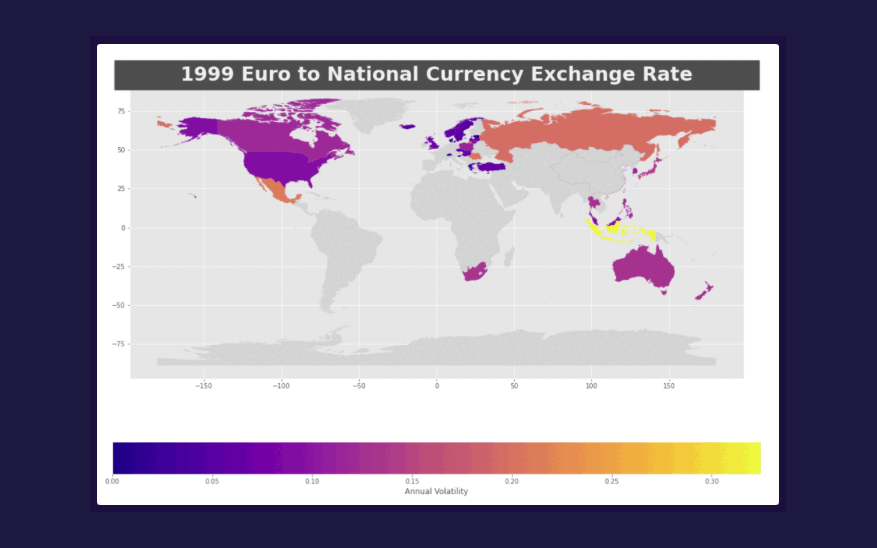
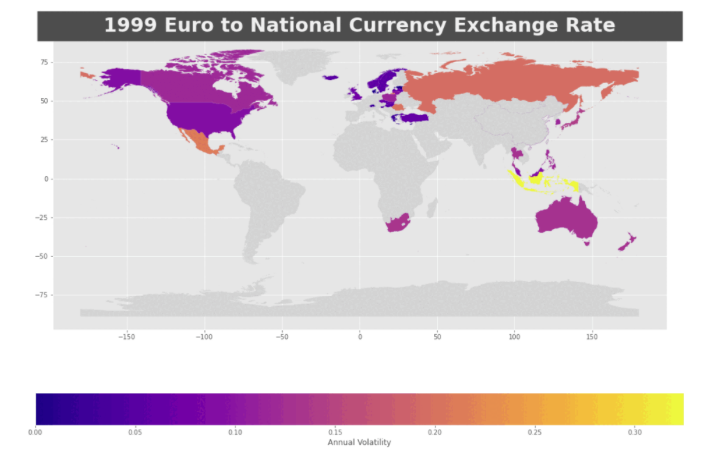
Update fixing thumbnails, map, some text

diff --git a/assets/app.js b/assets/app.js
@@ -1,22 +1,105 @@
 /* data542.com - app.js
-   Minimal JS - the accordion is pure HTML/CSS.
-   This file is here for future use (e.g. Power BI embed tokens,
-   contact form handling, analytics). */
+   Click-to-zoom viewer for architecture diagrams (img[data-zoom]).
+   Buttons, +/- keys, and ctrl/cmd + scroll (trackpad pinch) change zoom;
+   drag or scroll to pan. */
 
 document.addEventListener('DOMContentLoaded', () => {
+  const imgs = document.querySelectorAll('img[data-zoom]');
+  if (!imgs.length) return;
 
-  // Close other open accordions when one opens (optional UX polish)
-  const details = document.querySelectorAll('details.project-item');
-  details.forEach(detail => {
-    detail.addEventListener('toggle', () => {
-      if (detail.open) {
-        details.forEach(other => {
-          if (other !== detail && other.open) {
-            other.removeAttribute('open');
-          }
-        });
-      }
+  const dlg = document.createElement('dialog');
+  dlg.className = 'zoom';
+  dlg.setAttribute('aria-label', 'Diagram viewer');
+  dlg.innerHTML =
+    '<div class="zoom-bar">' +
+      '<button type="button" data-act="out" aria-label="Zoom out">&minus;</button>' +
+      '<button type="button" data-act="fit" aria-label="Fit to screen">Fit</button>' +
+      '<button type="button" data-act="in" aria-label="Zoom in">+</button>' +
+      '<button type="button" data-act="close" aria-label="Close">Close</button>' +
+    '</div>' +
+    '<div class="zoom-view"><img alt=""></div>';
+  document.body.appendChild(dlg);
+
+  const view = dlg.querySelector('.zoom-view');
+  const big = view.querySelector('img');
+  const MIN = 1, MAX = 4;
+  let scale = 1;
+
+  const fitWidth = () => Math.min(view.clientWidth - 32, 1600);
+
+  function setScale(next, cx, cy) {
+    next = Math.max(MIN, Math.min(MAX, next));
+    // keep the point under the cursor (or the view centre) in place
+    const px = cx ?? view.clientWidth / 2;
+    const py = cy ?? view.clientHeight / 2;
+    const fx = (view.scrollLeft + px) / view.scrollWidth;
+    const fy = (view.scrollTop + py) / view.scrollHeight;
+    scale = next;
+    big.style.width = Math.round(fitWidth() * scale) + 'px';
+    view.scrollLeft = fx * view.scrollWidth - px;
+    view.scrollTop = fy * view.scrollHeight - py;
+  }
+
+  function open(src, alt) {
+    big.src = src;
+    big.alt = alt || '';
+    dlg.showModal();
+    scale = 1;
+    big.style.width = fitWidth() + 'px';
+    view.scrollTo(0, 0);
+  }
+
+  imgs.forEach(img => {
+    img.tabIndex = 0;
+    img.setAttribute('role', 'button');
+    img.title = 'Click to zoom';
+    const hint = document.createElement('span');
+    hint.className = 'zoom-hint';
+    hint.textContent = 'Click to zoom';
+    (img.closest('figure') || img.parentNode).appendChild(hint);
+    img.addEventListener('click', () => open(img.src, img.alt));
+    img.addEventListener('keydown', e => {
+      if (e.key === 'Enter' || e.key === ' ') { e.preventDefault(); open(img.src, img.alt); }
     });
   });
 
+  dlg.querySelector('.zoom-bar').addEventListener('click', e => {
+    const act = e.target.closest('button')?.dataset.act;
+    if (act === 'in') setScale(scale * 1.5);
+    if (act === 'out') setScale(scale / 1.5);
+    if (act === 'fit') setScale(1);
+    if (act === 'close') dlg.close();
+  });
+
+  dlg.addEventListener('keydown', e => {
+    if (e.key === '+' || e.key === '=') setScale(scale * 1.5);
+    if (e.key === '-') setScale(scale / 1.5);
+    if (e.key === '0') setScale(1);
+  });
+
+  view.addEventListener('wheel', e => {
+    if (!e.ctrlKey && !e.metaKey) return;
+    e.preventDefault();
+    const r = view.getBoundingClientRect();
+    setScale(scale * Math.exp(-e.deltaY * 0.01), e.clientX - r.left, e.clientY - r.top);
+  }, { passive: false });
+
+  // drag to pan (mouse / pen; touch uses native scrolling)
+  let drag = null;
+  view.addEventListener('pointerdown', e => {
+    if (e.pointerType === 'touch') return;
+    drag = { x: e.clientX, y: e.clientY, l: view.scrollLeft, t: view.scrollTop };
+    view.classList.add('dragging');
+    view.setPointerCapture(e.pointerId);
+  });
+  view.addEventListener('pointermove', e => {
+    if (!drag) return;
+    view.scrollLeft = drag.l - (e.clientX - drag.x);
+    view.scrollTop = drag.t - (e.clientY - drag.y);
+  });
+  const end = () => { drag = null; view.classList.remove('dragging'); };
+  view.addEventListener('pointerup', end);
+  view.addEventListener('pointercancel', end);
+
+  window.addEventListener('resize', () => { if (dlg.open) setScale(scale); });
 });

diff --git a/architecture.html b/architecture.html
@@ -32,6 +32,7 @@
   .roadmap-item .label.live{color:var(--gold);}
   hr{border:none;border-top:1px solid var(--border);margin:2.4rem 0;}
 </style>
+<link rel="stylesheet" href="assets/zoom.css">
 </head>
 <body>
 <div class="wrap">
@@ -43,7 +44,7 @@
   <p class="lead">Every project on this site runs on a shared AWS foundation: scheduled compute jobs ingest data from external APIs, land it in Amazon S3, and refine it through staged layers, with Amazon CloudFront serving the curated output to Power BI reports embedded here. EventBridge handles all scheduling. Compute is matched to the workload. Short ingestion and transformation jobs run on Lambda, while longer-running scans run as Fargate container tasks. Projects share a single S3 bucket, separated by prefix and governed by IAM roles scoped to each project's own data. The platform currently supports two production pipelines, a weather station feed live since early 2025 and a daily equities scanner, with further projects planned on the same foundation.</p>
 
   <figure>
-    <img src="data542-current-architecture.svg" alt="Current architecture: Tempest weather and Swing Trader pipelines feeding a shared S3 lake, served through CloudFront to Power BI.">
+    <img src="data542-current-architecture.svg" data-zoom alt="Current architecture: Tempest weather and Swing Trader pipelines feeding a shared S3 lake, served through CloudFront to Power BI.">
     <figcaption>Current architecture: the two production pipelines on the shared foundation.</figcaption>
   </figure>
 
@@ -84,10 +85,11 @@
   <p class="roadmap-item"><span class="label">Deferred by design: the shared catalog.</span> The common bucket convention and Glue Data Catalog described in the decisions above, sequenced to begin once the Sunset project's requirements are concrete.</p>
 
   <figure>
-    <img src="data542-target-architecture.svg" alt="Target architecture: all five projects as lanes feeding the shared lake, with live and planned routes and a planned Glue Data Catalog spanning the bucket.">
+    <img src="data542-target-architecture.svg" data-zoom alt="Target architecture: all five projects as lanes feeding the shared lake, with live and planned routes and a planned Glue Data Catalog spanning the bucket.">
     <figcaption>Target architecture: the full estate, with planned routes shown alongside what runs today.</figcaption>
   </figure>
 
 </div>
+<script src="assets/app.js"></script>
 </body>
 </html>

diff --git a/index.html b/index.html
@@ -11,6 +11,7 @@
   <meta property="og:url" content="https://data542.com/"/>
   <meta property="og:image" content="https://data542.com/assets/img/logo.png"/>
   <link rel="stylesheet" href="assets/styles.css"/>
+  <link rel="stylesheet" href="assets/zoom.css"/>
   <link rel="icon" type="image/png" href="assets/img/logo.png"/>
 </head>
 <body>
@@ -98,13 +99,11 @@
          than Lambda allows, so it runs as a Fargate container. EventBridge schedules both, and
          Power BI reads the results through CloudFront.</p>
 
-      <p>Two pipelines run this way today. The Euro study below is next on the platform. It runs
-         now from a frozen dataset that stops in 2020; rebuilt here, it pulls from the source that
-         publishes those rates daily. A one-time terrain calculation and engine telemetry collected
-         offline come later.</p>
+      <p>Two pipelines run on the platform today, the weather station and the equities scanner.
+         The roadmap below lists the projects planned next and how each one differs from these two.</p>
 
       <figure class="diagram">
-        <img src="data542-current-architecture.svg"
+        <img src="data542-current-architecture.svg" data-zoom
              alt="data542 platform architecture: Tempest and market data flow through Lambda and Fargate into an S3 medallion lake, then out via CloudFront to Power BI"
              loading="lazy"/>
       </figure>
@@ -209,8 +208,10 @@
           <div class="status status--planned">Planned</div>
           <div>
             <h3>FOREX modernization</h3>
-            <p>The exploratory notebook rebuilt on the platform, with a currency-pair selector,
-               multiple timescales, and a three-dimensional volatility visualization across twenty pairs.</p>
+            <p>The exploratory notebook rebuilt on the platform. The notebook's dataset ends in 2020;
+               the rebuild pulls rates from the source that publishes them daily, and adds a
+               currency-pair selector, multiple timescales, and a three-dimensional volatility
+               visualization across twenty pairs.</p>
           </div>
         </div>
 

diff --git a/assets/zoom.css b/assets/zoom.css
@@ -1,0 +1,68 @@
+/* data542.com - zoom.css
+   Click-to-zoom viewer for architecture diagrams (img[data-zoom]). */
+
+img[data-zoom] { cursor: zoom-in; }
+
+.zoom-hint {
+  display: block;
+  margin-top: 0.5rem;
+  font-family: ui-monospace, 'SFMono-Regular', Menlo, Consolas, monospace;
+  font-size: 0.68rem;
+  letter-spacing: 0.06em;
+  color: #9b92c0;
+  text-align: right;
+}
+
+dialog.zoom {
+  width: 100vw;
+  height: 100vh;
+  max-width: none;
+  max-height: none;
+  margin: 0;
+  padding: 0;
+  border: none;
+  background: #0e0c20;
+  color: #e8e0f0;
+}
+dialog.zoom::backdrop { background: rgba(8, 6, 26, 0.85); }
+
+.zoom-bar {
+  position: absolute;
+  top: 0; left: 0; right: 0;
+  display: flex;
+  justify-content: flex-end;
+  gap: 0.5rem;
+  padding: 0.75rem 1rem;
+  background: rgba(14, 12, 32, 0.92);
+  border-bottom: 1px solid #2e2660;
+  z-index: 1;
+}
+.zoom-bar button {
+  font-family: ui-monospace, 'SFMono-Regular', Menlo, Consolas, monospace;
+  font-size: 0.8rem;
+  min-width: 2.6rem;
+  padding: 0.35rem 0.7rem;
+  color: #e8e0f0;
+  background: #141230;
+  border: 1px solid #2e2660;
+  border-radius: 6px;
+  cursor: pointer;
+}
+.zoom-bar button:hover { border-color: #FFB347; color: #FFB347; }
+
+.zoom-view {
+  position: absolute;
+  top: 3.4rem; left: 0; right: 0; bottom: 0;
+  overflow: auto;
+  cursor: grab;
+  touch-action: pan-x pan-y pinch-zoom;
+}
+.zoom-view.dragging { cursor: grabbing; }
+.zoom-view img {
+  display: block;
+  max-width: none;
+  height: auto;
+  margin: 1.5rem auto;
+  user-select: none;
+  -webkit-user-drag: none;
+}

diff --git a/assets/styles.css b/assets/styles.css
@@ -200,26 +200,27 @@ h1 {
 .pull p:first-child { color: var(--text); font-size: 1.05rem; max-width: 66ch; }
 .pull p { max-width: 66ch; }
 
-/* ── PROJECT BANDS ── */
+/* ── PROJECT BANDS ──
+   Every project image gets the same frame width; flipped bands
+   mirror the column order so the image size never changes. */
 .project {
   display: grid;
-  grid-template-columns: minmax(0, 1fr) minmax(0, 19rem);
+  grid-template-columns: minmax(0, 1fr) minmax(0, 32rem);
   gap: 2.25rem;
   align-items: start;
 }
+.project--flip { grid-template-columns: minmax(0, 32rem) minmax(0, 1fr); }
 .project--flip > .shot { order: -1; }
 
 .shot {
+  width: 100%;
   border: 1px solid var(--border);
   border-radius: var(--radius);
   background: var(--bg3);
   overflow: hidden;
   aspect-ratio: 16 / 10;
-  display: flex;
-  align-items: center;
-  justify-content: center;
 }
-.shot img { width: 100%; height: 100%; object-fit: contain; opacity: 0.9; }
+.shot img { width: 100%; height: 100%; object-fit: cover; opacity: 0.92; }
 
 /* ── ROADMAP ── */
 .roadmap { display: flex; flex-direction: column; gap: 1.15rem; width: 100%; max-width: 68ch; }
@@ -266,7 +267,8 @@ h1 {
 
 /* narrow - project image stacks under the text */
 @media (max-width: 960px) {
-  .project { grid-template-columns: minmax(0, 1fr); gap: 1.4rem; }
+  .project,
+  .project--flip { grid-template-columns: minmax(0, 1fr); gap: 1.4rem; }
   .project--flip > .shot { order: 0; }
 }
 
